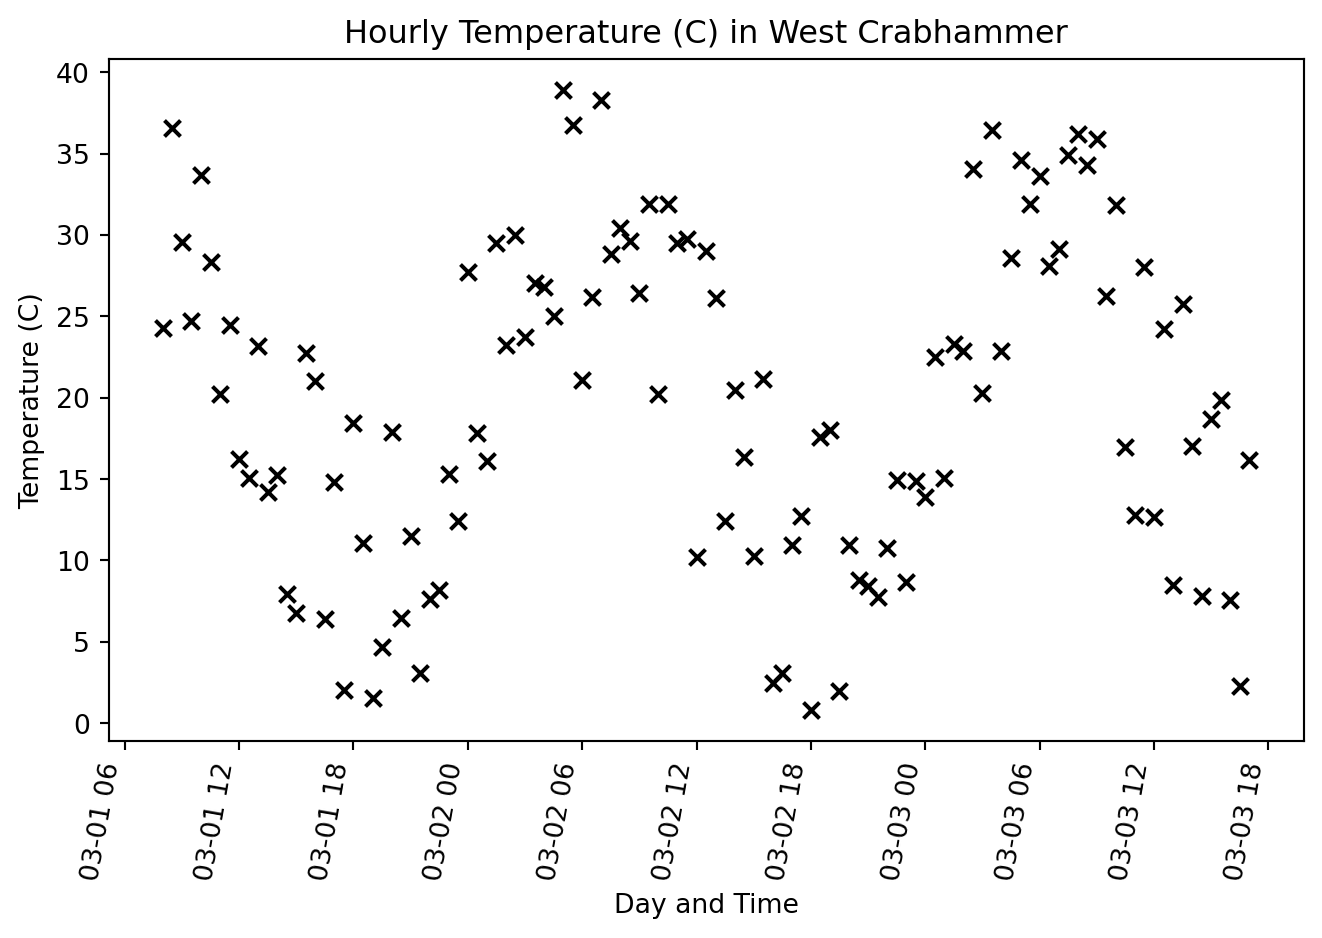
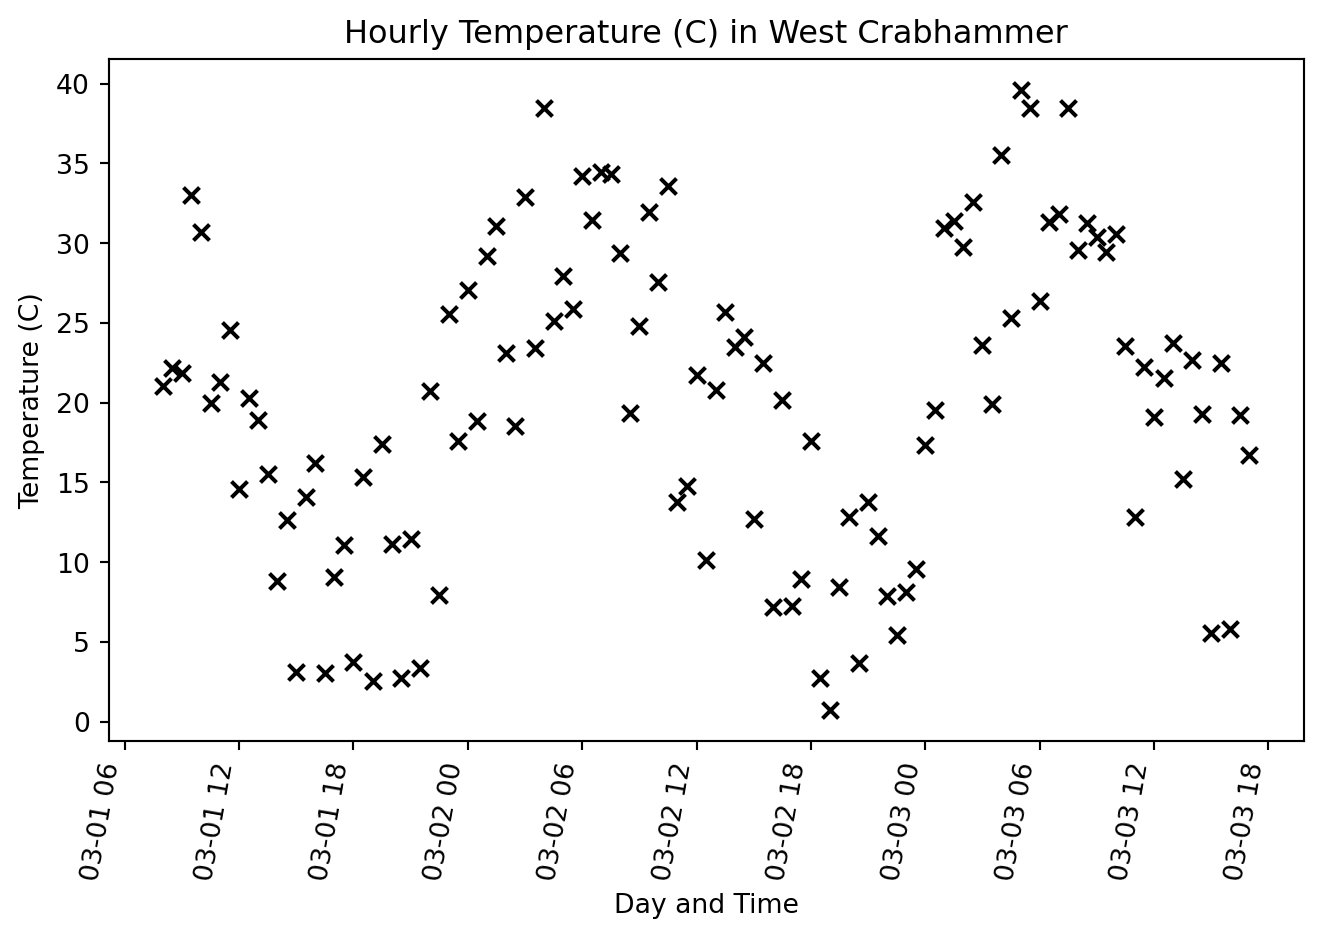
slideshow work

diff --git a/docs/python_geospatial_basics.html b/docs/python_geospatial_basics.html
@@ -145,11 +145,14 @@ pre > code.sourceCode > span > a:first-child::before { text-decoration: underlin
 </ul>
 <section id="environment" class="level2 scrollable smaller non-incremental">
 <h2 class="scrollable smaller non-incremental anchored" data-anchor-id="environment">Environment</h2>
-<p>Before we get started we need to set up a Python environment in which to work. We will be using Anaconda for this.</p>
+<p>Before we get started we need to set up a Python environment in which to work. We will be using Anaconda for this. It <em>should</em> already be installed on the lab computers. If you are using your own computer</p>
 <ul>
 <li>Download the environment.yml</li>
-<li>In the start menu search for Anaconda. Open an Anaconda Powershell.</li>
+<li>If you are working on a lab computer In the start menu search for Anaconda. Open an Anaconda Powershell. (on linux or mac with Anconda or miniconda or Mamba installed just open a terminal)(If you are installing on your own computer I recommend <a href="https://mamba.readthedocs.io/en/latest/installation/mamba-installation.html">Mamba</a>)</li>
 </ul>
+<p class="noteBoxes type2">
+A note on Windows terminals
+</p>
 <pre class="{bash}"><code>cd ~
 mkdir geog441
 cd geog441
@@ -227,7 +230,7 @@ dependencies:
 <section id="basic-numbers" class="level2">
 <h2 class="anchored" data-anchor-id="basic-numbers">Basic Numbers</h2>
 <p>Floats and Ints don’t do anything all that surprising</p>
-<div id="cd6b641e" class="cell" data-execution_count="1">
+<div id="726d2ce2" class="cell" data-execution_count="1">
 <div class="sourceCode cell-code" id="cb5"><pre class="sourceCode python code-with-copy"><code class="sourceCode python"><span id="cb5-1"><a href="#cb5-1" aria-hidden="true" tabindex="-1"></a>a <span class="op">=</span> <span class="dv">2</span> <span class="op">+</span> <span class="dv">2</span></span>
 <span id="cb5-2"><a href="#cb5-2" aria-hidden="true" tabindex="-1"></a>b <span class="op">=</span> <span class="fl">2.0</span> <span class="op">+</span> <span class="fl">2.0</span></span>
 <span id="cb5-3"><a href="#cb5-3" aria-hidden="true" tabindex="-1"></a>c <span class="op">=</span> a <span class="op">+</span> b</span>
@@ -254,7 +257,7 @@ and 5 % 4 is 1</code></pre>
 <section id="sequences" class="level2">
 <h2 class="anchored" data-anchor-id="sequences">Sequences</h2>
 <p>Lists, tuples, and strings ae all sequences</p>
-<div id="985d131e" class="cell" data-execution_count="2">
+<div id="39590dd9" class="cell" data-execution_count="2">
 <div class="sourceCode cell-code" id="cb7"><pre class="sourceCode python code-with-copy"><code class="sourceCode python"><span id="cb7-1"><a href="#cb7-1" aria-hidden="true" tabindex="-1"></a><span class="co"># a list</span></span>
 <span id="cb7-2"><a href="#cb7-2" aria-hidden="true" tabindex="-1"></a>a_list <span class="op">=</span> [<span class="dv">1</span>, <span class="dv">2</span>, <span class="dv">3</span>, <span class="dv">4</span>, <span class="dv">5</span>, <span class="dv">6</span>, <span class="dv">7</span>, <span class="dv">8</span>, <span class="dv">9</span>]</span>
 <span id="cb7-3"><a href="#cb7-3" aria-hidden="true" tabindex="-1"></a></span>
@@ -297,7 +300,7 @@ neushorn?</code></pre>
 <a href="https://labex.io/tutorials/python-how-to-manipulate-list-sequences-in-python-419858">Sequences tutorial</a><br>
 <a href="https://www.youtube.com/watch?v=n3KMrwmq_94">Sequence tutorial as video</a></p>
 <p>THe key difference is that tuples are immutable.</p>
-<div id="7cb4da65" class="cell" data-execution_count="3">
+<div id="8b191ba7" class="cell" data-execution_count="3">
 <div class="sourceCode cell-code" id="cb9"><pre class="sourceCode python code-with-copy"><code class="sourceCode python"><span id="cb9-1"><a href="#cb9-1" aria-hidden="true" tabindex="-1"></a>a_list[<span class="dv">1</span>] <span class="op">=</span> <span class="dv">256</span></span>
 <span id="cb9-2"><a href="#cb9-2" aria-hidden="true" tabindex="-1"></a></span>
 <span id="cb9-3"><a href="#cb9-3" aria-hidden="true" tabindex="-1"></a>a_tup[<span class="dv">1</span>] <span class="op">=</span> <span class="dv">256</span></span></code><button title="Copy to Clipboard" class="code-copy-button"><i class="bi"></i></button></pre></div>
@@ -316,7 +319,7 @@ Cell <span class="ansi-green-fg">In[3], line 3</span>
 </section>
 <section id="dictionaries" class="level2">
 <h2 class="anchored" data-anchor-id="dictionaries">Dictionaries</h2>
-<div id="a58faa03" class="cell" data-execution_count="4">
+<div id="a7b694af" class="cell" data-execution_count="4">
 <div class="sourceCode cell-code" id="cb10"><pre class="sourceCode python code-with-copy"><code class="sourceCode python"><span id="cb10-1"><a href="#cb10-1" aria-hidden="true" tabindex="-1"></a>pets <span class="op">=</span> {<span class="st">'honden'</span>: <span class="dv">26</span>, <span class="st">'katten'</span>: <span class="dv">100</span>}</span>
 <span id="cb10-2"><a href="#cb10-2" aria-hidden="true" tabindex="-1"></a></span>
 <span id="cb10-3"><a href="#cb10-3" aria-hidden="true" tabindex="-1"></a><span class="cf">for</span> key, val <span class="kw">in</span> pets.items():</span>
@@ -333,7 +336,7 @@ Cell <span class="ansi-green-fg">In[3], line 3</span>
 </section>
 <section id="iterating" class="level2">
 <h2 class="anchored" data-anchor-id="iterating">Iterating</h2>
-<div id="a51a71bf" class="cell" data-execution_count="5">
+<div id="4a84578d" class="cell" data-execution_count="5">
 <div class="sourceCode cell-code" id="cb12"><pre class="sourceCode python code-with-copy"><code class="sourceCode python"><span id="cb12-1"><a href="#cb12-1" aria-hidden="true" tabindex="-1"></a>a <span class="op">=</span> [<span class="dv">1</span>, <span class="dv">2</span>, <span class="dv">3</span>, <span class="dv">4</span>, <span class="dv">5</span>, <span class="dv">6</span>, <span class="dv">7</span>, <span class="dv">8</span>, <span class="dv">9</span>]</span>
 <span id="cb12-2"><a href="#cb12-2" aria-hidden="true" tabindex="-1"></a></span>
 <span id="cb12-3"><a href="#cb12-3" aria-hidden="true" tabindex="-1"></a><span class="co"># use a loop to append squared values to new lists</span></span>
@@ -362,7 +365,7 @@ is the same as
 <li>can return something</li>
 <li>have there own scope</li>
 </ul>
-<div id="d071e6e4" class="cell" data-execution_count="6">
+<div id="c3144493" class="cell" data-execution_count="6">
 <div class="sourceCode cell-code" id="cb14"><pre class="sourceCode python code-with-copy"><code class="sourceCode python"><span id="cb14-1"><a href="#cb14-1" aria-hidden="true" tabindex="-1"></a><span class="im">import</span> numpy <span class="im">as</span> np</span>
 <span id="cb14-2"><a href="#cb14-2" aria-hidden="true" tabindex="-1"></a></span>
 <span id="cb14-3"><a href="#cb14-3" aria-hidden="true" tabindex="-1"></a><span class="kw">def</span> root_mean_square(list_of_numbers):</span>
@@ -382,7 +385,7 @@ is the same as
 </div>
 </div>
 <p>They do nat have to have arguments or return stuff.</p>
-<div id="e520df61" class="cell" data-execution_count="7">
+<div id="46e31a74" class="cell" data-execution_count="7">
 <div class="sourceCode cell-code" id="cb16"><pre class="sourceCode python code-with-copy"><code class="sourceCode python"><span id="cb16-1"><a href="#cb16-1" aria-hidden="true" tabindex="-1"></a><span class="kw">def</span> complain():</span>
 <span id="cb16-2"><a href="#cb16-2" aria-hidden="true" tabindex="-1"></a>  <span class="bu">print</span>(<span class="st">'This is boring!</span><span class="ch">\n</span><span class="st">when will we get to the GIS stuff.</span><span class="ch">\n\U0001F620\U0001F620\U0001F620\n\n</span><span class="st">Soon! Bear with me.'</span>)</span>
 <span id="cb16-3"><a href="#cb16-3" aria-hidden="true" tabindex="-1"></a></span>
@@ -399,7 +402,7 @@ Soon! Bear with me.</code></pre>
 <section id="pandas-dataframe" class="level2 smaller scrollable">
 <h2 class="smaller scrollable anchored" data-anchor-id="pandas-dataframe">Pandas DataFrame</h2>
 <p>DataFrames hold tabular data</p>
-<div id="0c249521" class="cell" data-output-location="fragment" data-execution_count="8">
+<div id="6f14acbf" class="cell" data-output-location="fragment" data-execution_count="8">
 <div class="sourceCode cell-code" id="cb18"><pre class="sourceCode python code-with-copy"><code class="sourceCode python"><span id="cb18-1"><a href="#cb18-1" aria-hidden="true" tabindex="-1"></a><span class="im">from</span> datetime <span class="im">import</span> datetime, timedelta</span>
 <span id="cb18-2"><a href="#cb18-2" aria-hidden="true" tabindex="-1"></a><span class="im">from</span> random <span class="im">import</span> uniform</span>
 <span id="cb18-3"><a href="#cb18-3" aria-hidden="true" tabindex="-1"></a><span class="im">import</span> matplotlib.pyplot <span class="im">as</span> plt</span>
@@ -448,27 +451,27 @@ Soon! Bear with me.</code></pre>
 <tr class="odd">
 <td data-quarto-table-cell-role="th">0</td>
 <td>2025-03-01 08:00:00</td>
-<td>24.313789</td>
+<td>21.022221</td>
 </tr>
 <tr class="even">
 <td data-quarto-table-cell-role="th">1</td>
 <td>2025-03-01 08:30:00</td>
-<td>36.574912</td>
+<td>22.192412</td>
 </tr>
 <tr class="odd">
 <td data-quarto-table-cell-role="th">2</td>
 <td>2025-03-01 09:00:00</td>
-<td>29.548481</td>
+<td>21.864310</td>
 </tr>
 <tr class="even">
 <td data-quarto-table-cell-role="th">3</td>
 <td>2025-03-01 09:30:00</td>
-<td>24.698708</td>
+<td>33.023162</td>
 </tr>
 <tr class="odd">
 <td data-quarto-table-cell-role="th">4</td>
 <td>2025-03-01 10:00:00</td>
-<td>33.660086</td>
+<td>30.680347</td>
 </tr>
 </tbody>
 </table>
@@ -479,7 +482,7 @@ Soon! Bear with me.</code></pre>
 </section>
 <section id="pandas-dataframe-cont." class="level2 scrollable">
 <h2 class="scrollable anchored" data-anchor-id="pandas-dataframe-cont.">Pandas DataFrame Cont.</h2>
-<div id="941645a4" class="cell" data-execution_count="9">
+<div id="9bd1c7df" class="cell" data-execution_count="9">
 <div class="sourceCode cell-code" id="cb19"><pre class="sourceCode python code-with-copy"><code class="sourceCode python"><span id="cb19-1"><a href="#cb19-1" aria-hidden="true" tabindex="-1"></a>fig, ax <span class="op">=</span> plt.subplots()</span>
 <span id="cb19-2"><a href="#cb19-2" aria-hidden="true" tabindex="-1"></a></span>
 <span id="cb19-3"><a href="#cb19-3" aria-hidden="true" tabindex="-1"></a><span class="co"># create the scatter plot</span></span>
@@ -506,15 +509,15 @@ Soon! Bear with me.</code></pre>
 </div>
 </div>
 </div>
-<div id="35a6c174" class="cell" data-execution_count="10">
+<div id="f88b9180" class="cell" data-execution_count="10">
 <div class="sourceCode cell-code" id="cb20"><pre class="sourceCode python code-with-copy"><code class="sourceCode python"><span id="cb20-1"><a href="#cb20-1" aria-hidden="true" tabindex="-1"></a><span class="co"># get the mean temperature over the timeseries</span></span>
 <span id="cb20-2"><a href="#cb20-2" aria-hidden="true" tabindex="-1"></a>df[<span class="st">'T (C)'</span>].mean()</span></code><button title="Copy to Clipboard" class="code-copy-button"><i class="bi"></i></button></pre></div>
 <div class="cell-output cell-output-display" data-execution_count="10">
-<pre><code>np.float64(19.882915237791167)</code></pre>
+<pre><code>np.float64(20.1086139567247)</code></pre>
 </div>
 </div>
 <p>When there are no spaces in a column name you can access the column as an attribute of the datafame.</p>
-<div id="a2314073" class="cell" data-execution_count="11">
+<div id="f50ad6a9" class="cell" data-execution_count="11">
 <div class="sourceCode cell-code" id="cb22"><pre class="sourceCode python code-with-copy"><code class="sourceCode python"><span id="cb22-1"><a href="#cb22-1" aria-hidden="true" tabindex="-1"></a><span class="co"># get the number of time stamps in the date_time column</span></span>
 <span id="cb22-2"><a href="#cb22-2" aria-hidden="true" tabindex="-1"></a>df.date_time.count()</span></code><button title="Copy to Clipboard" class="code-copy-button"><i class="bi"></i></button></pre></div>
 <div class="cell-output cell-output-display" data-execution_count="11">
@@ -576,7 +579,7 @@ Soon! Bear with me.</code></pre>
 </section>
 <section id="polygon" class="level2">
 <h2 class="anchored" data-anchor-id="polygon">Polygon</h2>
-<div id="9840dd12" class="cell" data-execution_count="12">
+<div id="9cf2421f" class="cell" data-execution_count="12">
 <div class="sourceCode cell-code" id="cb24"><pre class="sourceCode python code-with-copy"><code class="sourceCode python"><span id="cb24-1"><a href="#cb24-1" aria-hidden="true" tabindex="-1"></a><span class="im">from</span> shapely <span class="im">import</span> Polygon</span>
 <span id="cb24-2"><a href="#cb24-2" aria-hidden="true" tabindex="-1"></a></span>
 <span id="cb24-3"><a href="#cb24-3" aria-hidden="true" tabindex="-1"></a>coords <span class="op">=</span> ((<span class="fl">0.</span>, <span class="fl">0.</span>), (<span class="fl">0.</span>, <span class="fl">2.</span>), (<span class="fl">1.</span>, <span class="fl">1.</span>), (<span class="fl">1.</span>, <span class="fl">0.</span>), (<span class="fl">0.</span>, <span class="fl">0.</span>))</span>
@@ -601,7 +604,7 @@ Soon! Bear with me.</code></pre>
 <section id="reading-files" class="level2">
 <h2 class="anchored" data-anchor-id="reading-files">Reading Files</h2>
 <p>Here we will read a geojson using the <code>read_file</code> method.</p>
-<div id="5cdda98a" class="cell" data-execution_count="13">
+<div id="c72d4f6a" class="cell" data-execution_count="13">
 <div class="sourceCode cell-code" id="cb26"><pre class="sourceCode python code-with-copy"><code class="sourceCode python"><span id="cb26-1"><a href="#cb26-1" aria-hidden="true" tabindex="-1"></a><span class="im">from</span> pathlib <span class="im">import</span> Path</span>
 <span id="cb26-2"><a href="#cb26-2" aria-hidden="true" tabindex="-1"></a><span class="im">import</span> geopandas <span class="im">as</span> gpd</span>
 <span id="cb26-3"><a href="#cb26-3" aria-hidden="true" tabindex="-1"></a></span>
